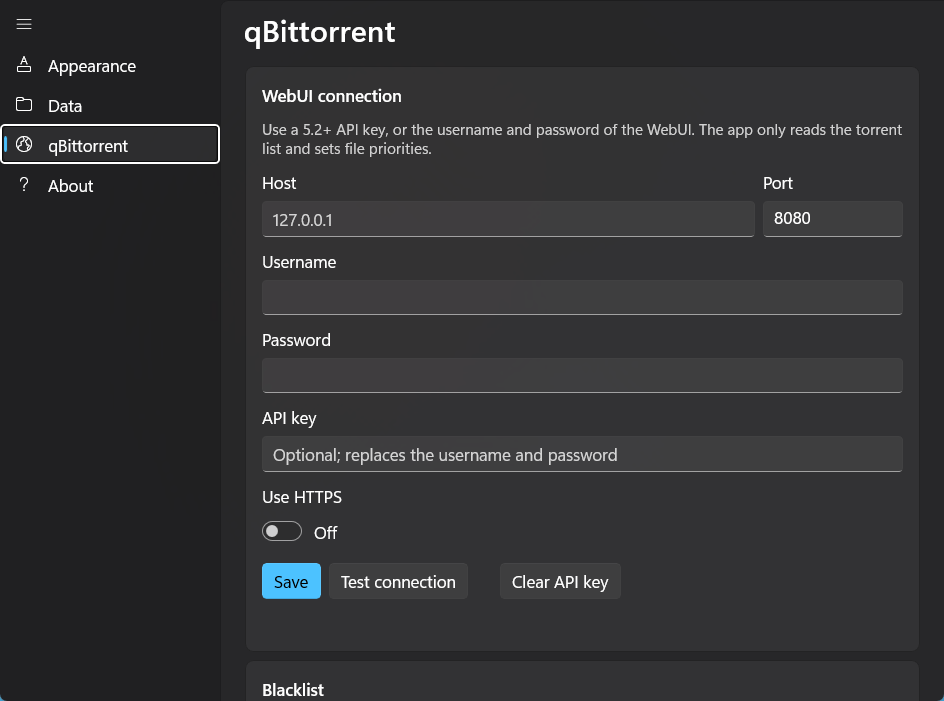
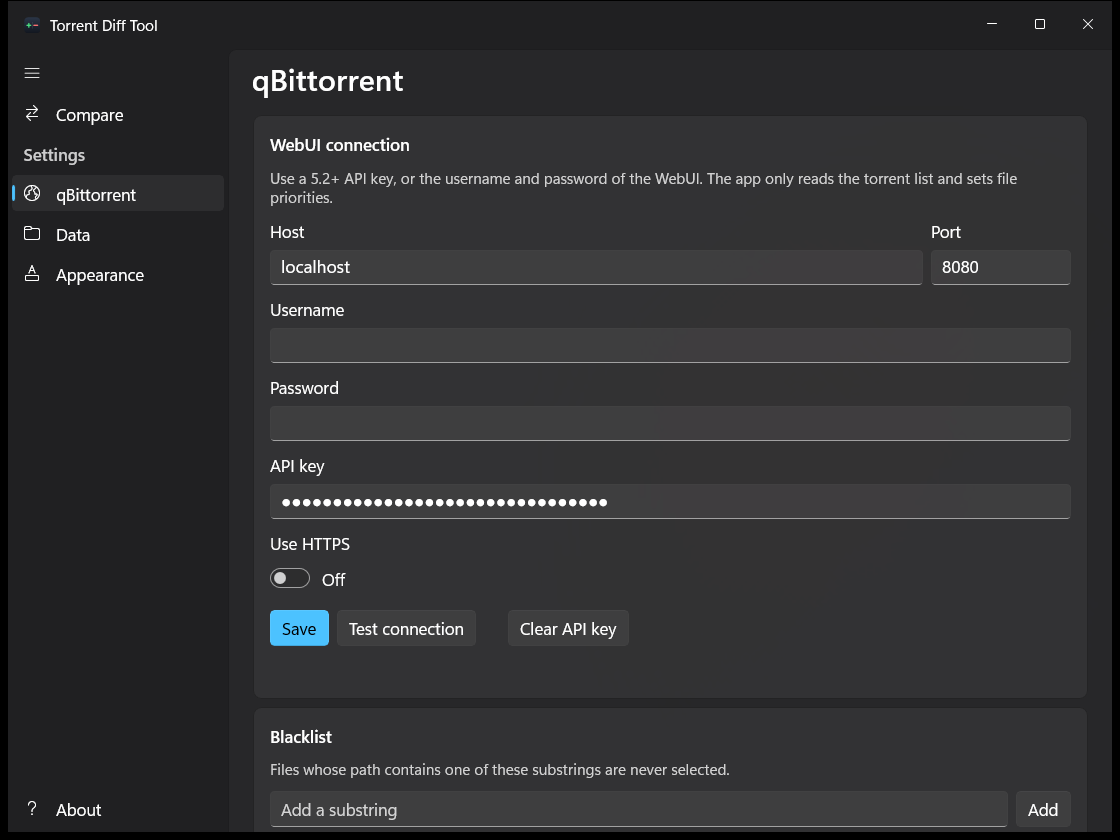
feat(app): move settings and about into a sidebar
Settings opened in a second window, so the app had two windows and the
comparison was hidden behind one of them.

- host every page in a NavigationView sidebar on the main window: Compare,
  qBittorrent, Data, Appearance and About pinned to the footer
- keep one SettingsViewModel for all settings pages and cache the pages, so a
  comparison survives a trip to the settings
- move the report link to About and drop the settings window
- refresh the screenshots

diff --git a/src/Tdt.App/MainWindow.xaml b/src/Tdt.App/MainWindow.xaml
@@ -26,9 +26,49 @@
                 Text="Torrent Diff Tool" />
         </Grid>
 
-        <Frame
-            x:Name="RootFrame"
+        <NavigationView
+            x:Name="Navigation"
             Grid.Row="1"
-            Background="Transparent" />
+            Background="Transparent"
+            IsBackButtonVisible="Collapsed"
+            IsSettingsVisible="False"
+            PaneDisplayMode="Left"
+            OpenPaneLength="220"
+            SelectionChanged="OnNavigationSelectionChanged">
+            <NavigationView.MenuItems>
+                <NavigationViewItem
+                    x:Name="CompareItem"
+                    Content="Compare"
+                    Tag="compare">
+                    <NavigationViewItem.Icon>
+                        <SymbolIcon Symbol="Switch" />
+                    </NavigationViewItem.Icon>
+                </NavigationViewItem>
+                <NavigationViewItemHeader Content="Settings" />
+                <NavigationViewItem Content="qBittorrent" Tag="qbittorrent">
+                    <NavigationViewItem.Icon>
+                        <SymbolIcon Symbol="World" />
+                    </NavigationViewItem.Icon>
+                </NavigationViewItem>
+                <NavigationViewItem Content="Data" Tag="data">
+                    <NavigationViewItem.Icon>
+                        <SymbolIcon Symbol="Folder" />
+                    </NavigationViewItem.Icon>
+                </NavigationViewItem>
+                <NavigationViewItem Content="Appearance" Tag="appearance">
+                    <NavigationViewItem.Icon>
+                        <SymbolIcon Symbol="FontColor" />
+                    </NavigationViewItem.Icon>
+                </NavigationViewItem>
+            </NavigationView.MenuItems>
+            <NavigationView.FooterMenuItems>
+                <NavigationViewItem Content="About" Tag="about">
+                    <NavigationViewItem.Icon>
+                        <SymbolIcon Symbol="Help" />
+                    </NavigationViewItem.Icon>
+                </NavigationViewItem>
+            </NavigationView.FooterMenuItems>
+            <Frame x:Name="ContentFrame" />
+        </NavigationView>
     </Grid>
 </Window>

diff --git a/src/Tdt.App/Views/DiffPage.xaml b/src/Tdt.App/Views/DiffPage.xaml
@@ -7,6 +7,7 @@
     xmlns:services="using:Tdt.App.Services"
     xmlns:viewModels="using:Tdt.App.ViewModels"
     AllowDrop="True"
+    NavigationCacheMode="Required"
     Background="Transparent"
     DragEnter="OnDragEnter"
     DragLeave="OnDragLeave"
@@ -18,22 +19,12 @@
         <Border Grid.Row="0" Style="{StaticResource CardBorderStyle}">
             <StackPanel Spacing="12">
 
-                <Grid ColumnDefinitions="*,Auto" ColumnSpacing="12">
-                    <StackPanel Spacing="2" VerticalAlignment="Center">
-                        <TextBlock Style="{StaticResource BodyStrongTextBlockStyle}" Text="Release torrent" />
-                        <TextBlock
-                            Style="{StaticResource HintTextStyle}"
-                            Text="Open or drop the new .torrent. The archived torrent of the same release is found in the data folder." />
-                    </StackPanel>
-                    <StackPanel
-                        Grid.Column="1"
-                        Orientation="Horizontal"
-                        Spacing="8"
-                        VerticalAlignment="Top">
-                        <Button Content="Report a bug" Click="OnReportBugClick" />
-                        <Button Click="OnSettingsClick" Content="Settings" />
-                    </StackPanel>
-                </Grid>
+                <StackPanel Spacing="2">
+                    <TextBlock Style="{StaticResource BodyStrongTextBlockStyle}" Text="Release torrent" />
+                    <TextBlock
+                        Style="{StaticResource HintTextStyle}"
+                        Text="Open or drop the new .torrent. The archived torrent of the same release is found in the data folder." />
+                </StackPanel>
 
                 <Grid ColumnDefinitions="*,Auto,Auto" ColumnSpacing="8">
                     <TextBox

diff --git a/src/Tdt.App/Views/AboutPage.xaml b/src/Tdt.App/Views/AboutPage.xaml
@@ -3,7 +3,8 @@
     x:Class="Tdt.App.Views.AboutPage"
     xmlns="http://schemas.microsoft.com/winfx/2006/xaml/presentation"
     xmlns:x="http://schemas.microsoft.com/winfx/2006/xaml"
-    Background="Transparent">
+    Background="Transparent"
+    NavigationCacheMode="Required">
 
     <ScrollViewer>
         <StackPanel MaxWidth="900" Padding="24,8,24,24" Spacing="8">
@@ -38,6 +39,7 @@
                     <StackPanel Orientation="Horizontal" Spacing="8">
                         <Button Command="{x:Bind ViewModel.OpenSettingsFolderCommand}" Content="Open settings folder" />
                         <Button Command="{x:Bind ViewModel.OpenSourceCommand}" Content="Source code" />
+                        <Button Click="OnReportBugClick" Content="Report a bug" />
                     </StackPanel>
                 </StackPanel>
             </Border>

diff --git a/src/Tdt.App/Views/DataPage.xaml b/src/Tdt.App/Views/DataPage.xaml
@@ -4,7 +4,8 @@
     xmlns="http://schemas.microsoft.com/winfx/2006/xaml/presentation"
     xmlns:x="http://schemas.microsoft.com/winfx/2006/xaml"
     xmlns:muxc="using:Microsoft.UI.Xaml.Controls"
-    Background="Transparent">
+    Background="Transparent"
+    NavigationCacheMode="Required">
 
     <ScrollViewer>
         <StackPanel MaxWidth="900" Padding="24,8,24,24" Spacing="8">

diff --git a/src/Tdt.App/Views/QBittorrentPage.xaml b/src/Tdt.App/Views/QBittorrentPage.xaml
@@ -4,7 +4,8 @@
     xmlns="http://schemas.microsoft.com/winfx/2006/xaml/presentation"
     xmlns:x="http://schemas.microsoft.com/winfx/2006/xaml"
     xmlns:muxc="using:Microsoft.UI.Xaml.Controls"
-    Background="Transparent">
+    Background="Transparent"
+    NavigationCacheMode="Required">
 
     <ScrollViewer>
         <StackPanel MaxWidth="900" Padding="24,8,24,24" Spacing="8">

diff --git a/src/Tdt.App/Views/AppearancePage.xaml b/src/Tdt.App/Views/AppearancePage.xaml
@@ -3,7 +3,8 @@
     x:Class="Tdt.App.Views.AppearancePage"
     xmlns="http://schemas.microsoft.com/winfx/2006/xaml/presentation"
     xmlns:x="http://schemas.microsoft.com/winfx/2006/xaml"
-    Background="Transparent">
+    Background="Transparent"
+    NavigationCacheMode="Required">
 
     <ScrollViewer>
         <StackPanel MaxWidth="900" Padding="24,8,24,24" Spacing="8">

diff --git a/src/Tdt.App/MainWindow.xaml.cs b/src/Tdt.App/MainWindow.xaml.cs
@@ -1,6 +1,8 @@
 using Microsoft.UI.Windowing;
 using Microsoft.UI.Xaml;
+using Microsoft.UI.Xaml.Controls;
 using Tdt.App.Services;
+using Tdt.App.ViewModels;
 using Tdt.App.Views;
 using Tdt.Core.Models;
 using Windows.Graphics;
@@ -25,7 +27,10 @@ public sealed partial class MainWindow : Window
         App.MainWindow = this;
         App.Services.Theme.Register(this);
 
-        RootFrame.Navigate(typeof(DiffPage));
+        SettingsViewModel = new SettingsViewModel(
+            App.Services,
+            new DialogService(() => (Content as FrameworkElement)?.XamlRoot),
+            this);
 
         ConfigureBackdrop();
         ConfigureTitleBar();
@@ -36,7 +41,12 @@ public sealed partial class MainWindow : Window
         RestoreOrCenter();
 
         Closed += OnClosed;
+
+        Navigation.SelectedItem = CompareItem;
     }
+
+    /// <summary>The settings pages share one view model, so edits stay in sync.</summary>
+    public SettingsViewModel SettingsViewModel { get; }
 
     private void ConfigureBackdrop()
     {
@@ -57,6 +67,34 @@ public sealed partial class MainWindow : Window
 
         // Leave the caption buttons uncovered by the drag region.
         AppTitleBar.Padding = new Thickness(16, 0, AppWindow.TitleBar.RightInset, 0);
+    }
+
+    private void OnNavigationSelectionChanged(
+        NavigationView sender,
+        NavigationViewSelectionChangedEventArgs args)
+    {
+        if (args.SelectedItem is not NavigationViewItem { Tag: string tag })
+        {
+            return;
+        }
+
+        var pageType = tag switch
+        {
+            "qbittorrent" => typeof(QBittorrentPage),
+            "data" => typeof(DataPage),
+            "appearance" => typeof(AppearancePage),
+            "about" => typeof(AboutPage),
+            _ => typeof(DiffPage),
+        };
+
+        if (ContentFrame.CurrentSourcePageType == pageType)
+        {
+            return;
+        }
+
+        ContentFrame.Navigate(
+            pageType,
+            pageType == typeof(DiffPage) ? null : SettingsViewModel);
     }
 
     private void RestoreOrCenter()

diff --git a/src/Tdt.App/Views/DiffPage.xaml.cs b/src/Tdt.App/Views/DiffPage.xaml.cs
@@ -9,8 +9,6 @@ namespace Tdt.App.Views;
 
 public sealed partial class DiffPage : Page
 {
-    private SettingsWindow? _settingsWindow;
-
     public DiffPage()
     {
         ViewModel = new DiffViewModel(
@@ -22,23 +20,6 @@ public sealed partial class DiffPage : Page
     }
 
     public DiffViewModel ViewModel { get; }
-
-    private void OnSettingsClick(object sender, RoutedEventArgs e)
-    {
-        if (_settingsWindow is null)
-        {
-            _settingsWindow = new SettingsWindow();
-            _settingsWindow.Closed += (_, _) => _settingsWindow = null;
-        }
-
-        _settingsWindow.Activate();
-    }
-
-    private async void OnReportBugClick(object sender, RoutedEventArgs e)
-    {
-        await Windows.System.Launcher.LaunchUriAsync(
-            new Uri("https://github.com/phnthnhnm/tdt/issues/new"));
-    }
 
     private void OnDragEnter(object sender, DragEventArgs e)
     {

diff --git a/src/Tdt.App/Views/AboutPage.xaml.cs b/src/Tdt.App/Views/AboutPage.xaml.cs
@@ -1,3 +1,4 @@
+using Microsoft.UI.Xaml;
 using Microsoft.UI.Xaml.Controls;
 using Microsoft.UI.Xaml.Navigation;
 using Tdt.App.ViewModels;
@@ -12,6 +13,12 @@ public sealed partial class AboutPage : Page
     }
 
     public SettingsViewModel? ViewModel { get; private set; }
+
+    private async void OnReportBugClick(object sender, RoutedEventArgs e)
+    {
+        await Windows.System.Launcher.LaunchUriAsync(
+            new Uri("https://github.com/phnthnhnm/tdt/issues/new"));
+    }
 
     protected override void OnNavigatedTo(NavigationEventArgs e)
     {

diff --git a/README.md b/README.md
@@ -39,7 +39,7 @@ your downloads, diffs the file lists, and selects only what actually changed.
 - Timestamped settings backup and restore; a settings file that cannot be read is
   kept beside the original instead of being overwritten.
 - Native Windows 11 look: Mica backdrop, custom title bar, standard settings
-  cards, remembered window size, position and maximized state.
+  cards, a collapsible navigation sidebar, remembered window size, position and maximized state.
 - Single instance per session.
 
 ## Requirements
@@ -73,9 +73,9 @@ confirmation the first time. Choose "More info" and then "Run anyway".
 
 ## Usage
 
-1. Open **Settings → Data** and choose the folder where you keep the previously
+1. Open **Data** in the sidebar and choose the folder where you keep the previously
    downloaded `.torrent` files.
-2. Open **Settings → qBittorrent**, enter the WebUI host and port with either the
+2. Open **qBittorrent** in the sidebar, enter the WebUI host and port with either the
    username and password or an API key, and press **Test connection**.
 3. Open the new `.torrent` with **Browse…**, Ctrl+O or drag and drop. The
    comparison runs immediately.
@@ -134,8 +134,8 @@ settings but requires the credentials to be entered again.
 
 A settings file that cannot be read is **not** overwritten: it is moved aside as
 `settings.corrupt-<timestamp>.json` (or `settings.newer-<timestamp>.json` when it
-was written by a newer version) and the app starts with defaults. **Settings →
-Data** can export the file to a timestamped JSON backup, restore it, or reset
+was written by a newer version) and the app starts with defaults. **Data** in the
+sidebar can export the file to a timestamped JSON backup, restore it, or reset
 every setting. Restoring validates the file before it replaces anything.
 
 ## Development
@@ -223,10 +223,10 @@ bump. Tags are signed, so `git tag` needs `-a -m`.
 
 | Symptom | Fix |
 | --- | --- |
-| "Data folder not set in Settings" | Choose the folder in Settings → Data |
+| "Data folder not set in Settings" | Choose the folder under **Data** |
 | "No archived torrent found for this release" | Put the old `.torrent` in the data folder; it matches by file name or by torrent name |
 | "The data folder does not exist" | The configured folder was moved or deleted; choose it again |
-| "qBittorrent settings not configured" | Enter the host and port in Settings → qBittorrent |
+| "qBittorrent settings not configured" | Enter the host and port under **qBittorrent** |
 | "qBittorrent error: qBittorrent login failed (403)" | Check the username and password, or use an API key; **Test connection** reports the same result |
 | The torrent was added but everything is paused | That is intended: the app pauses and selects only the changed files |
 | Nothing is selected | The changed paths may be blacklisted |
